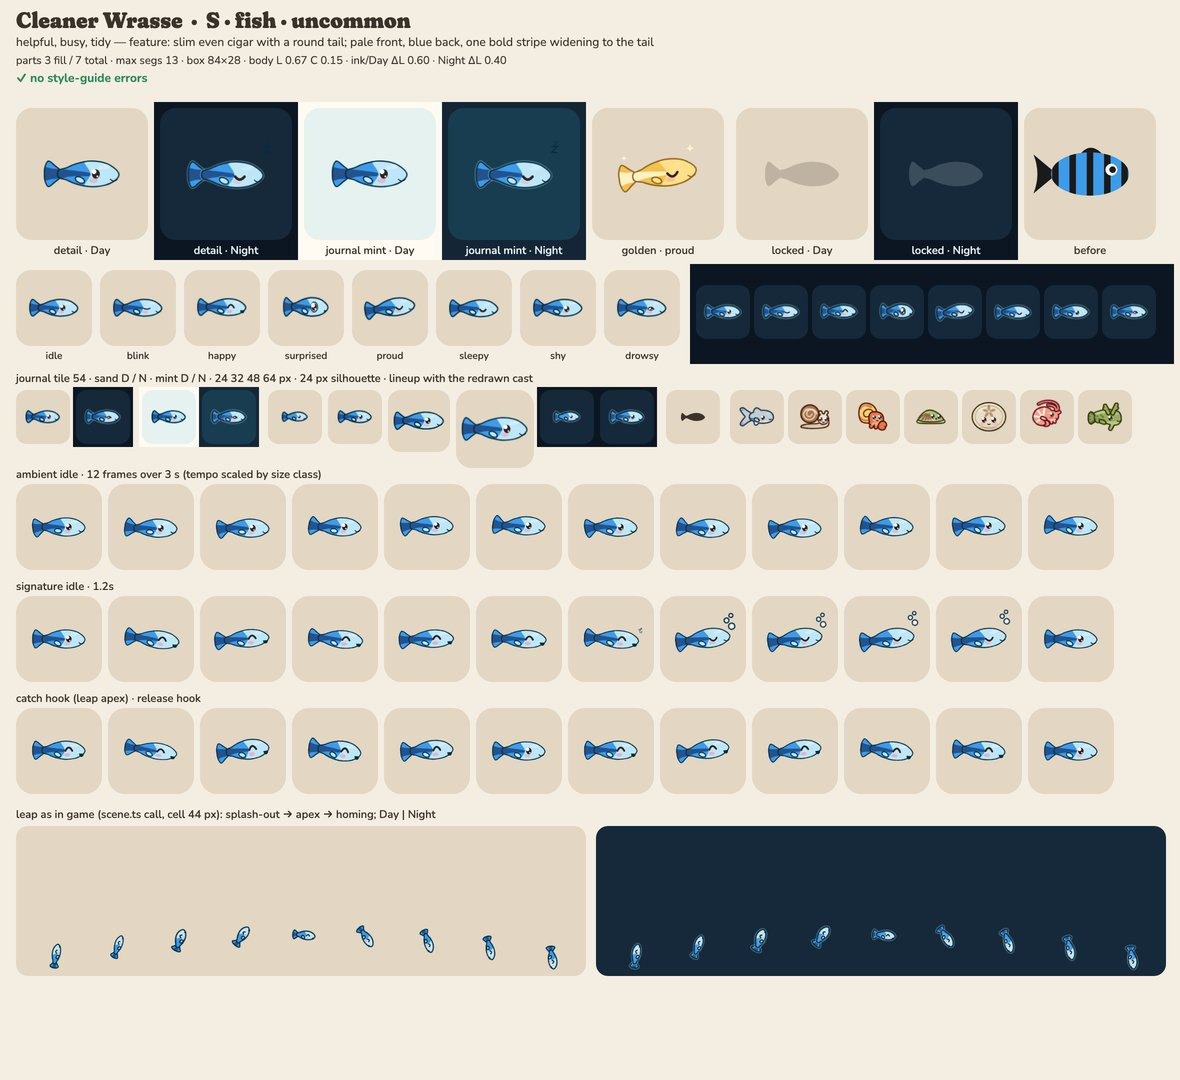
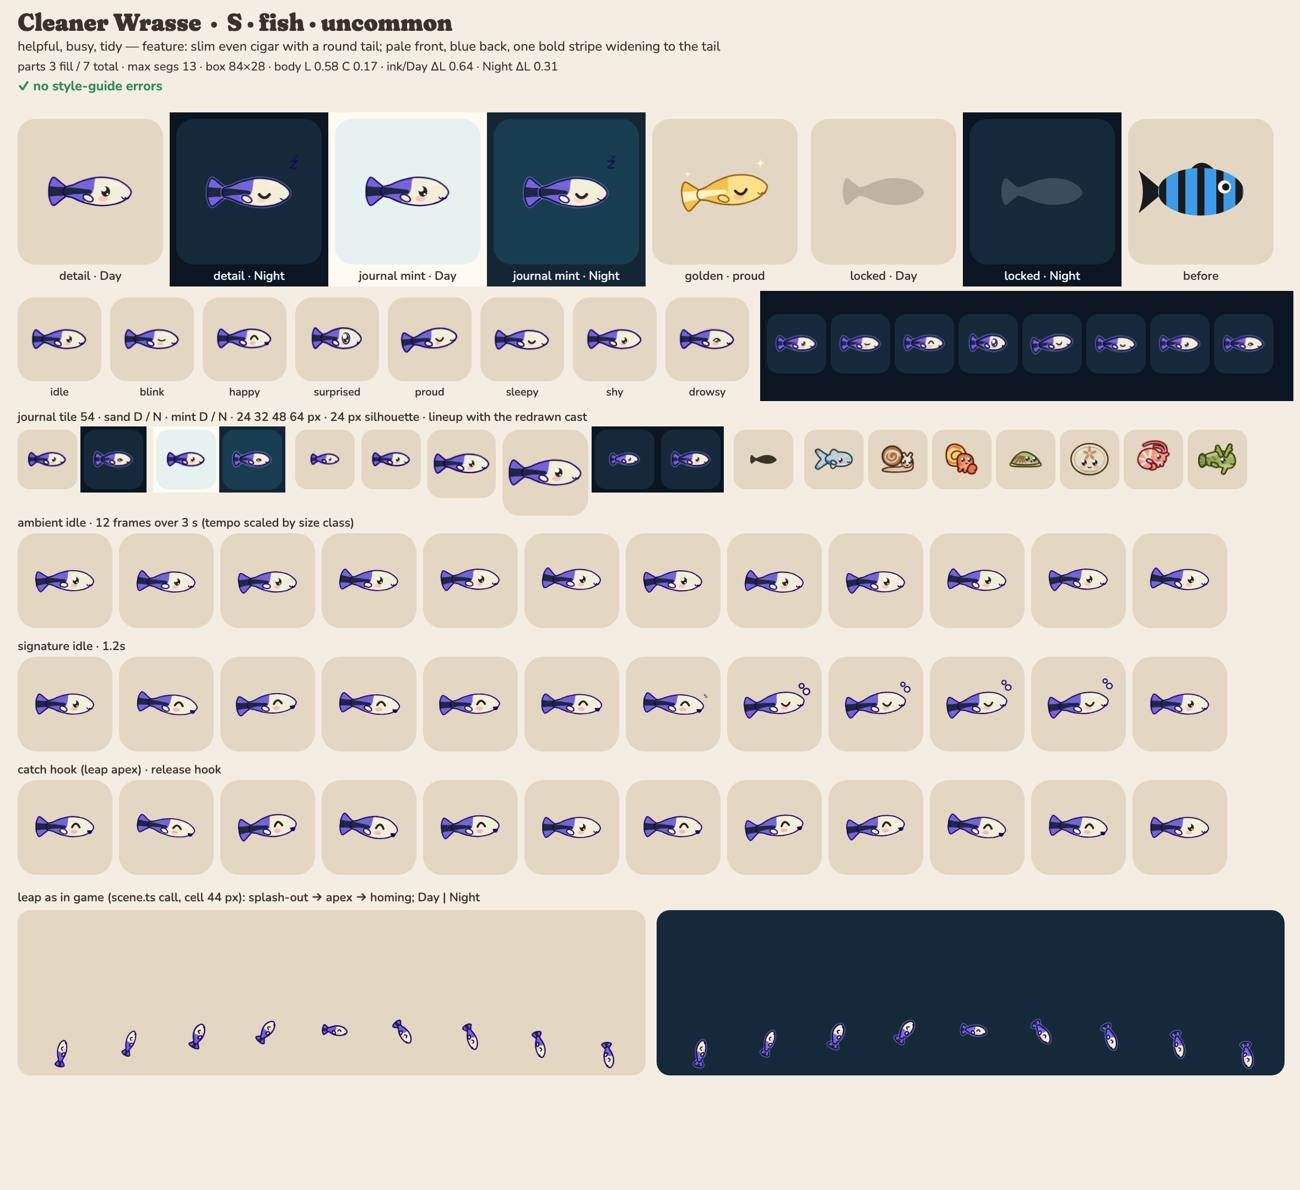
render: wrasse art round 4 (ADR 0011)
Off the firefly hex: cream #F3EED8 front half (diagonal split), electric
blue-violet #7464DA back (dE >= 6.6 from damsel/manta; no true blue at
L >= 0.575 clears damsel + firefly, and the Night rim needs that L).
Near-black #1E2740 stripe 4 u behind the eye -> 10 u into the tail;
2-dot sparkle at the snout in the scrub signature; 'w' spa smile.
IoU vs minnow 0.61. Sheet: no errors; 54 px reads as a cleaner wrasse.

diff --git a/src/render/art/species/wrasse.ts b/src/render/art/species/wrasse.ts
@@ -1,8 +1,9 @@
 /**
  * Cleaner wrasse — the reef's tidy little spa attendant (fish class, profile view, level).
  * Silhouette (R10): a slim, even cigar with a rounded fan tail (no fork, no tall fins): between the
- * barracuda's needle and the minnow's forked torpedo. Bluestreak colours: a pale front half, a blue
- * back half, and one bold navy stripe that starts behind the eye and widens into the tail.
+ * barracuda's needle and the minnow's forked torpedo. Bluestreak colours: a cream front half, an
+ * electric blue-violet back half, and one near-black stripe that starts behind the eye (clear of the
+ * face, R18E) and widens to 10 u into the tail.
  * Personality: helpful, busy, tidy. Signature: a little "scrub" wiggle with a bubble sparkle.
  */
 import { blob, circle, defineArt, ellipse, join, tube } from '../kit.ts';
@@ -41,26 +42,26 @@ const tail = blob(
 const pectoral = ellipse(-4, 7, 5, 2.6, 26);
 // the pale front half over the blue body (pattern, follows the outline)
 const front = blob([
-  [2, -18],
+  [8, -18],
   [46, -18],
   [46, 18],
-  [2, 18],
-  [8, 0],
+  [-8, 18],
+  [1, 0],
 ]);
 // one bold ink stripe: starts 3 u behind the eye at 4 u, arcs gently with the body's midline and
 // widens to 10 u at the tail root, then fans on into the tail (never a strip of tape)
 const stripe = tube([
-  [6, 0.6, 2],
-  [-5, -0.2, 2.8],
-  [-16, -0.6, 3.8],
-  [-27, 0, 5],
+  [-2, 0.4, 2],
+  [-8, 0, 2.4],
+  [-18, -0.4, 3.2],
+  [-27, 0, 4],
 ]);
 const tailStripe = tube([
-  [-27, 0, 5],
-  [-36, 0, 6],
-  [-46, 0, 7.5],
+  [-27, 0, 4],
+  [-36, 0, 4.6],
+  [-46, 0, 5],
 ]);
-const bubbles = join(circle(45, -16, 3.6), circle(39, -25, 2.6), circle(46, -31, 2));
+const bubbles = join(circle(45, -14, 3.2), circle(40, -22, 2.2));
 
 export default defineArt({
   id: 'wrasse',
@@ -68,7 +69,7 @@ export default defineArt({
   size: 'S',
   feature: 'slim even cigar with a round tail; pale front, blue back, one bold stripe widening to the tail',
   personality: ['helpful', 'busy', 'tidy'],
-  palette: { body: '#3D9BE9', accent: '#23528F', belly: '#BFE6F7' },
+  palette: { body: '#7464DA', accent: '#1E2740', belly: '#F3EED8' },
   groups: [
     {
       id: 'tail',
@@ -100,8 +101,8 @@ export default defineArt({
     eyes: [[14, 0]],
     eye: 10.6,
     zone: [4, -27, 38, 46],
-    // helpful: the wide, contented spa-attendant smile (CRITIQUE-2 resting mouths)
-    mouth: { at: [34.5, 6], w: 8, shape: 'smile' },
+    // helpful: the spa attendant's contented little cat-smile (CRITIQUE-3: its own resting mouth)
+    mouth: { at: [34.5, 6], w: 8, shape: 'w' },
     sweet: true,
   },
   idle: {
